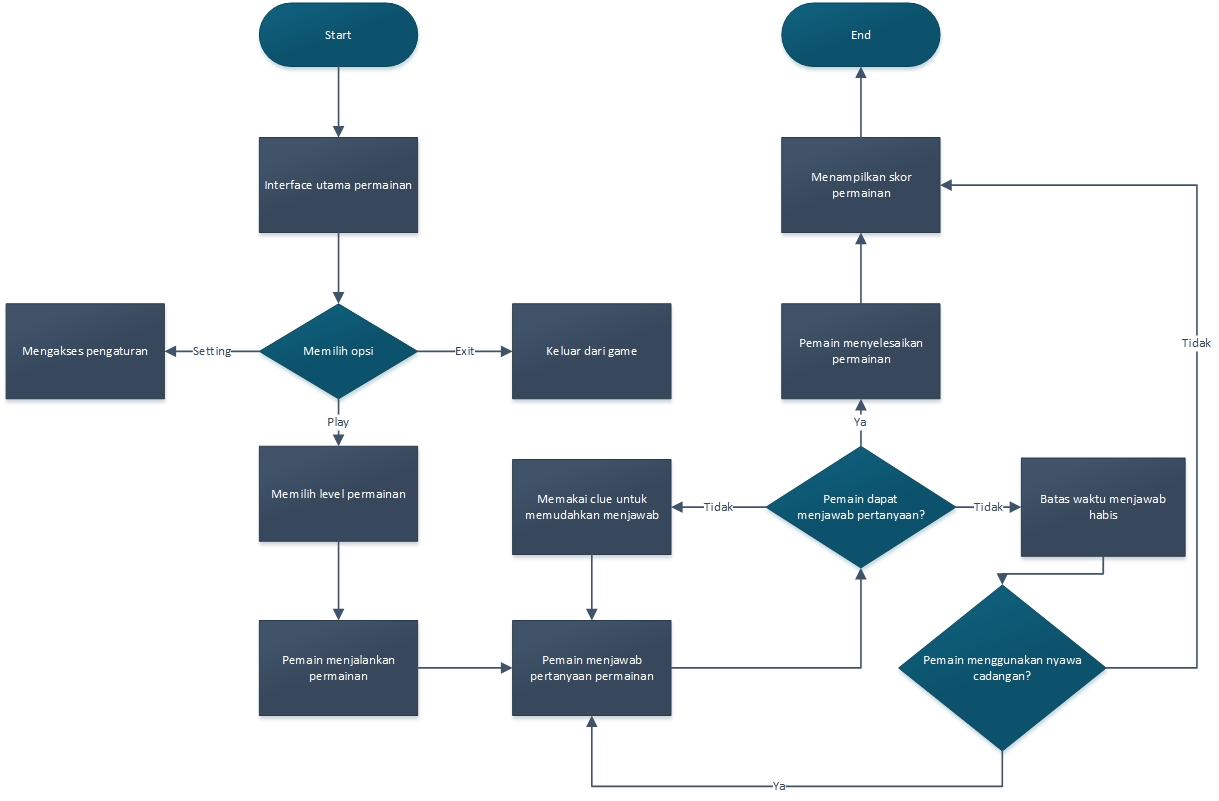
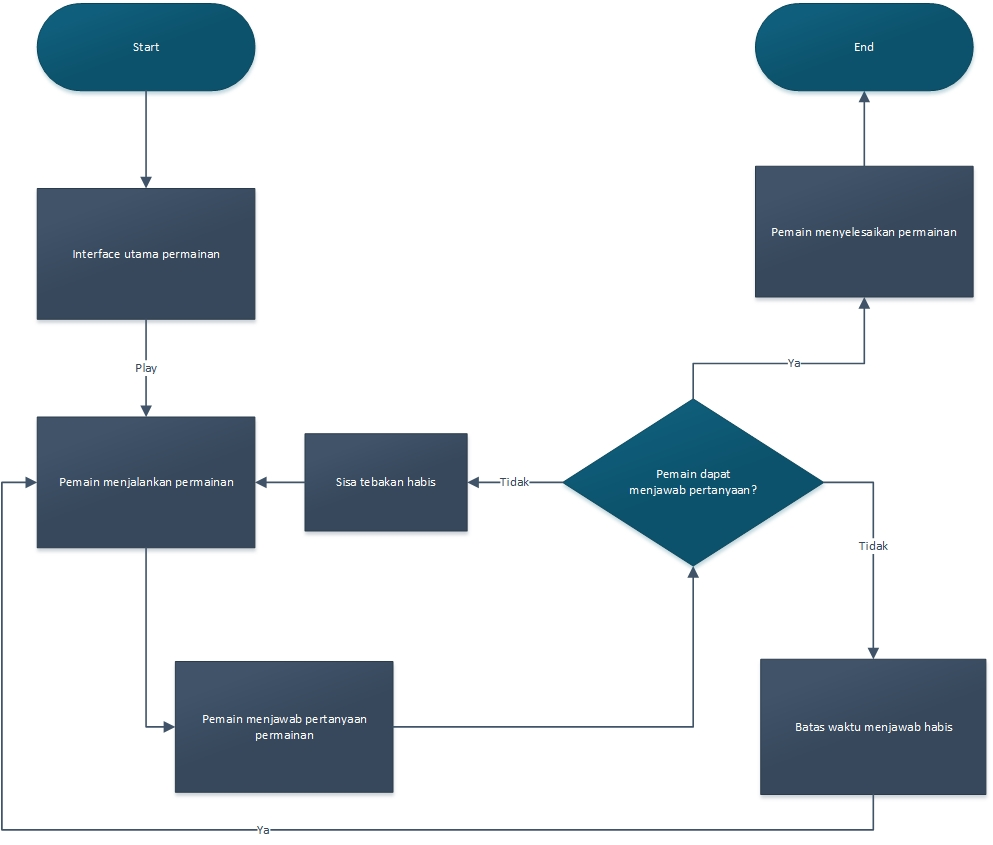
gede gedean

diff --git a/Script.js b/Script.js
@@ -1,54 +1,69 @@
 const inputs = document.querySelector(".inputs"),
-resetBtn = document.querySelector(".reset"),
 pertanyaan = document.querySelector(".pertanyaan span"),
 sisajawab = document.querySelector(".sisa-pertanyaan span"),
 salahjawab = document.querySelector(".huruf-salah span"),
+Level= document.querySelector(".Level span"),
+timer= document.querySelector(".timer span"),
 typingInput = document.querySelector(".typing-input");
 
 let word, maxGuesses, incorrectLetters = [], correctLetters = [];
-let answeredQuestions = []; // Array untuk menyimpan pertanyaan yang telah dijawab
+let currentIndex = 0;
+let timerInterval = null; // Menyimpan ID interval timer
+
+if (currentIndex >= wordList.length) {
+    currentIndex = 0; // Kembali ke awal
+}
 
 function randomWord() {
-    // Mendapatkan daftar pertanyaan yang belum dijawab
-    let unansweredQuestions = wordList.filter(question => !answeredQuestions.some(answered => answered.word === question.word));
-    
-    // apabila telah terjawab semua
-    if (unansweredQuestions.length === 0) {
-        alert("Semua pertanyaan telah dijawab!, Tekan tombol kembali untuk kembali ke halaman awal.");
-        let message = document.createElement('div');
-        message.innerHTML = `
-            <p>Semua pertanyaan telah dijawab!, Tekan tombol kembali untuk kembali ke halaman awal.</p>
-            <button onclick="redirectToAnotherPage()">Ok</button>
-        `;
-        document.body.appendChild(message);
-        return;
-    }
-    
-    // Mendapatkan soal random dari daftar pertanyaan yang belum dijawab
-    let ranItem = unansweredQuestions[Math.floor(Math.random() * unansweredQuestions.length)];
-    word = ranItem.word; // Mendapatkan kata dari objek acak
-    maxGuesses = word.length >= 5 ? 6 : 4;
-    correctLetters = []; 
+    // Mendapatkan soal random dari wordlist
+    let currentItem = wordList[currentIndex];
+    word = currentItem.word; // Mendapatkan kata dari objek acak
+    maxGuesses = word.length >= 5 ? 3 : 3;
+    correctLetters = [];
     incorrectLetters = [];
-    
+    // Menampilkan level
+    Level.innerText = currentItem.Level;
     // Menampilkan Pertanyaan
-    pertanyaan.innerText = ranItem.pertanyaan;
-    
+    pertanyaan.innerText = currentItem.pertanyaan;
     // Menampilkan max sisa jawaban
     sisajawab.innerText = maxGuesses;
-    
     // Menampilkan pesan jawaban salah
     salahjawab.innerText = incorrectLetters;
+    // Menampilkan Timer
+    timeLeft = 30;
+    timer.innerText = timeLeft;
 
-    //Program perulangan untuk menampilkan pertanyaan
+    // Program perulangan untuk menampilkan pertanyaan
     let html = "";
     for (let i = 0; i < word.length; i++) {
         html += `<input type="text" disabled>`;
         inputs.innerHTML = html;
     }
+    currentIndex++;
+
+    // Memulai ulang timer
+    clearInterval(timerInterval); // Menghentikan timer sebelum memulai ulang
+    countdown(); // Memulai timer kembali
 }
 
 // Input saat memainkan game
+let timeLeft = 30;
+function countdown() {
+    timerInterval = setInterval(() => {
+        if (timeLeft > 0) {
+            timeLeft--;
+            timer.innerText = timeLeft;
+        } else {
+            clearInterval(timerInterval); // Menghentikan timer jika waktu habis
+            alert("Waktu habis! Kamu tidak mempunyai sisa waktu!");
+            window.location.href = 'Game.html';
+        }
+    }, 1000);
+}
+
+// Panggil countdown() untuk memulai timer pertama kali
+countdown();
+
 function initGame(e) {
     let key = e.target.value.toLowerCase();
     if(key.match(/^[A-Za-z]+$/) && !incorrectLetters.includes(` ${key}`) && !correctLetters.includes(key)) {
@@ -69,21 +84,26 @@ function initGame(e) {
     typingInput.value = "";
     setTimeout(() => {
         if(correctLetters.length === word.length) {
-            alert(`Congrats! Kamu menemukan jawabannya! ${word.toUpperCase()}`);
-            answeredQuestions.push({ word, pertanyaan: pertanyaan.innerText });
-            randomWord();
+            alert(`Congrats! Kamu menemukan jawabannya! ${word.toUpperCase()},
+Silahkan Anda Melanjutkan Ke Level Selanjutnya`);
+             if (currentIndex === wordList.length ) {
+                // Ini adalah soal terakhir, kembali ke halaman web lain
+                alert("Selamat Kamu Telah Berhasil Menyelesaikan Semua Level yang ada di permainan ini ANJOYYYYY")
+                window.location.href = 'Homegame.html'; // Ganti dengan URL halaman web lain yang diinginkan
+            } else {
+                // Bukan soal terakhir, lanjutkan ke soal berikutnya
+                randomWord(); // Memulai soal baru
+            }
         } else if(maxGuesses < 1) {
             alert("Game over! Kamu tidak mempunyai sisa tebakan!");
             for(let i = 0; i < word.length; i++) {
                 inputs.querySelectorAll("input")[i].value = word[i];
             }
-            answeredQuestions.push({ word, pertanyaan: pertanyaan.innerText });
-            randomWord();
+            window.location.href = 'Game.html';
         }
     }, 100);
 }
 
-resetBtn.addEventListener("click", randomWord);
 randomWord();
 typingInput.addEventListener("input", initGame);
 inputs.addEventListener("click", () => typingInput.focus());

diff --git a/Word.js b/Word.js
@@ -1,51 +1,61 @@
 const wordList = [
     // 1
     {
+        Level: "1",
         word: "python",
         pertanyaan: "Apa nama bahasa pemrogaman yang mirip dengan hewan melata"
     },
     // 2
     {
+        Level: "2",
         word: "syntax",
         pertanyaan: "Apa Nama code dalam bahasa pemrogaman?"
     },
     // 3
     {
+        Level: "3",
         word: "insert",
         pertanyaan: "Syntax untuk memasukkan data pada My.Sql adalah?"
     },
     // 4
     {
+        Level: "4",
         word: "cpu",
         pertanyaan: "Saya adalah perangkat keras yang menjadi otak dari komputer. Saya memproses instruksi, melakukan perhitungan, dan mengelola aliran data. Tanpa saya, komputer tidak akan dapat melakukan tugas apa pun. Apakah saya?"
     },
     // 5
     {
+        Level: "5",
         word: "html",
         pertanyaan: "Saya adalah bahasa yang digunakan untuk membuat struktur dan tampilan dari sebuah halaman web. Saya digunakan untuk menentukan judul, teks, gambar, dan hyperlink di dalam dokumen web. Apakah saya?"
     },
     // 6
     {
+        Level: "6",
         word: "algoritma",
         pertanyaan: "Saya adalah kumpulan perintah yang disusun dalam urutan tertentu untuk menyelesaikan tugas tertentu. Saya digunakan oleh komputer untuk menjalankan program atau melakukan operasi lainnya. Apakah saya?"
     },
     // 7
     {
+        Level: "7",
         word: "java",
         pertanyaan: "Apa nama bahasa pemrogaman yang namanya mirip dengan salah satu pulau yang ada di indonesia"
     },
     // 8
     {
+        Level: "8",
         word: "query",
         pertanyaan: "Apa nama lain source code di basis data"
     },
     // 9
     {
+        Level: "9",
         word: "internet",
         pertanyaan: "Saya adalah jaringan komputer yang luas, mencakup area geografis yang besar seperti kota, negara, atau bahkan seluruh dunia. Saya memungkinkan komputer di lokasi yang berbeda untuk terhubung dan berkomunikasi satu sama lain. Apakah saya?"
     },
     // 10
     {
+        Level: "10",
         word: "password",
         pertanyaan: "Saya adalah kode rahasia yang digunakan untuk mengakses situs web atau layanan online tertentu. Saya terdiri dari kombinasi huruf, angka, dan karakter khusus. Orang harus memasukkan saya untuk masuk ke akun mereka. Apakah saya?"
     },

diff --git a/Beranda.html b/Beranda.html
@@ -39,7 +39,9 @@
             <p>2. Pada interface tersebut berisi button play untuk memainkan game.</p>
             <p>3. Pemain akan masuk kedalam permainan dan bisa menyelesaikan teka teki yang telah kami buat.</p>
             <p>4. Setiap level mempunyai 10 soal yang wajib dijawab dengan benar oleh pemain.</p>
-            <p>9. Pemain akan diberi nyawa yang berfungsi apabila jawaban pemain salah, maka pemain dapat melanjutkan game dengan menggunakan nyawa tersebut.</p>
+            <p>5. Pemain akan diberi nyawa yang berfungsi apabila jawaban pemain salah, maka pemain dapat melanjutkan game dengan menggunakan nyawa tersebut.</p>
+            <p>6. Setiap level mempunyai kesempatan melakukan kesalahan sebanyak 3 nyawa.</p>
+            <p>7. Setiap level mempunyai durasi waktu sebanyak 30 detik untuk menjawab.</p>
         </section>
         <section>
             <h2>- Flowchart Game</h2>

diff --git a/Game.html b/Game.html
@@ -22,11 +22,12 @@
                     <div class="inputs">
                     </div>
                     <div class="details">
+                        <p class="Level">Level : <span></span></p>
                         <p class="pertanyaan">Pertanyaan : <span></span></p>
-                        <p class="sisa-pertanyaan">sisa tebakan : <span>10</span></p>
-                        <p class="huruf-salah">Huruf yang salah : <span>a, b, c, d</span></p>
+                        <p class="sisa-pertanyaan">sisa tebakan : <span></span></p>
+                        <p class="huruf-salah">Huruf yang salah : <span></span></p>
                     </div>
-                    <button class="reset">Acak pertanyaan</button>
+                    <p class="timer">Timer : <span></span></p>
                 </div>
             </div>
          </div>

diff --git a/Game.css b/Game.css
@@ -102,16 +102,7 @@ html, body {
 .content .details {
     margin: 20px 0 25px;
 }
-.content .reset {
-    color: white;
-    background: #8058ef;
-    width: 100%;
-    cursor: pointer;
-    border: none;
-    font-size: 17pt;
-    border-radius: 5px;
-    padding: 15px 0;
-}
+
 .details p {
     font-size: 19px;
     margin-bottom: 10px;
@@ -124,4 +115,20 @@ footer {
     position: relative;
     bottom: 0;
     width: 98,5%;
+}
+
+.content .timer {
+    font-family:Arial, sans-serif;
+    font-weight: bold;
+    color: white;
+    background: #8058ef;
+    width: 100%;
+    cursor: pointer;
+    border: none;
+    font-size: 17pt;
+    border-radius: 5px;
+    padding: 15px 0;
+    justify-content: center;
+    align-items: center;
+    text-align: center;
 }

diff --git a/Homegame.html b/Homegame.html
@@ -29,7 +29,7 @@
             <h2 style="font-size:30pt;">PERATURAN GAME</h2>
             <span class="info">1. Pastikan pengaturan pada keyboard kamu menggunakan lowercase.</span>
             <span class="info">2. Terdapat 10 soal yang telah disediakan.</span>
-            <span class="info">3. Masing-masing soal mempunyai sisa tebakan yang berbeda-beda.</span>
+            <span class="info">3. Masing-masing soal mempunyai kesempatan 3 kali kesalahan.</span>
             <span class="info">4. Enjoyy, selamat bermain!.</span>
             <div class="btn-group">
                 <button class="info-btn exit-btn">Kembali</button>
